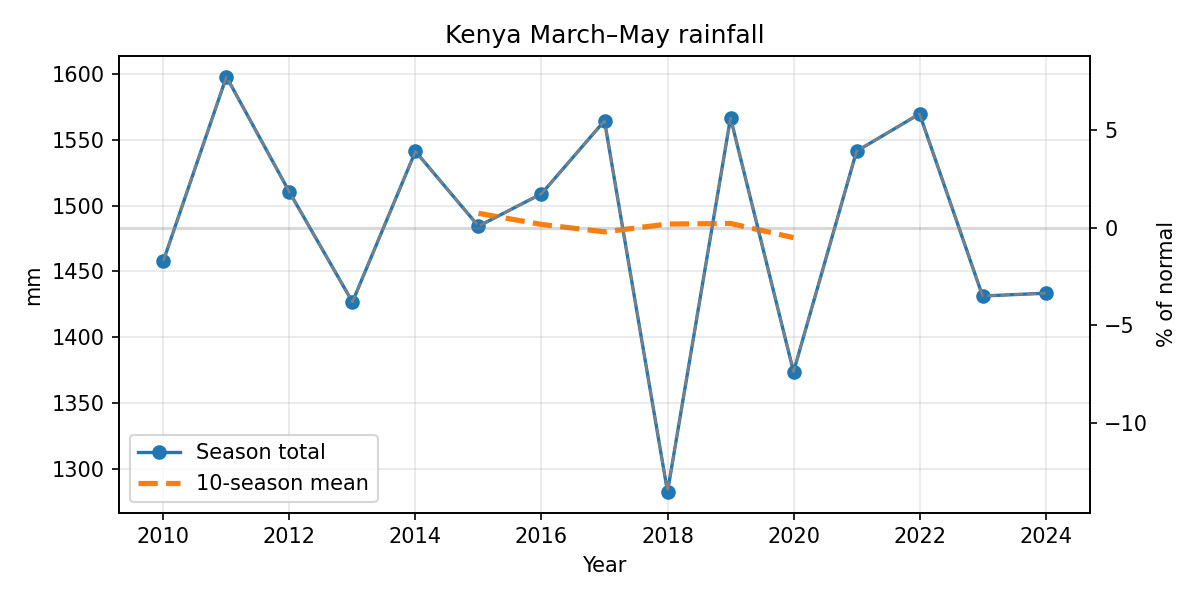
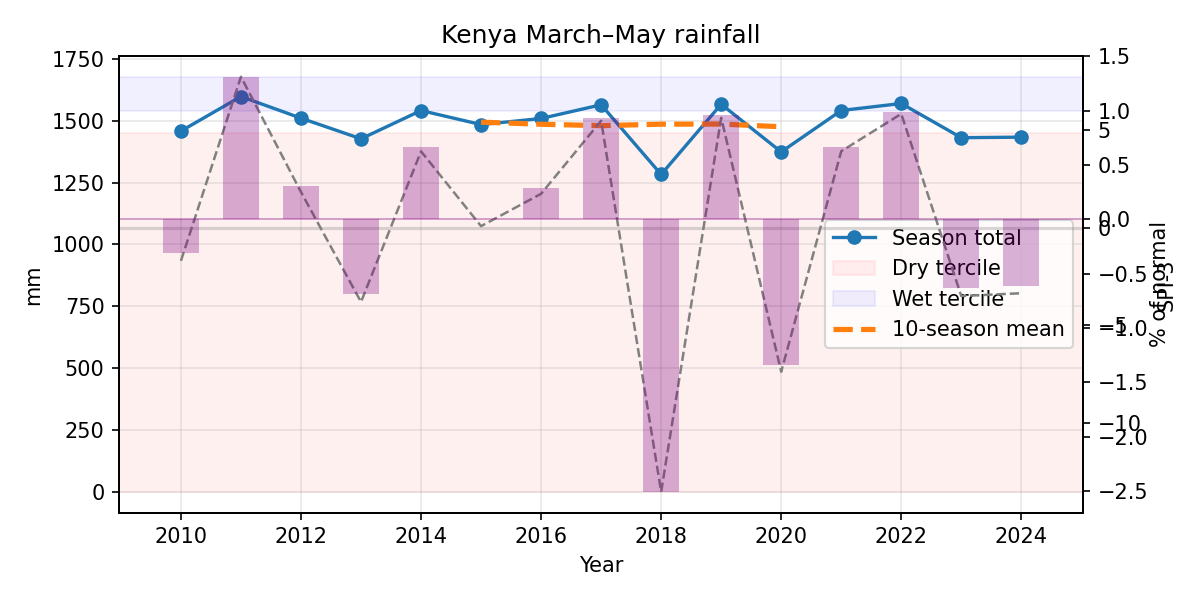
add visualization

diff --git a/east_africa_monsoon_project.py b/east_africa_monsoon_project.py
@@ -203,12 +203,25 @@ def plot_season(season_df: pd.DataFrame, window: Optional[int] = 10):
     ax.plot(season_df["year"], season_df["total_mm"],
             marker="o", lw=1.6, label="Season total")
 
+    # inside plot_season() *after* ax is created
+    q_lo, q_hi = season_df.total_mm.quantile([0.33, 0.66])
+    ax.axhspan(0, q_lo,  color="red",   alpha=0.06, label="Dry tercile")
+    ax.axhspan(q_hi, ax.get_ylim()[1], color="blue", alpha=0.06, label="Wet tercile")
+
     # NEW %-of-normal line (secondary y-axis so scales don’t clash)
     ax2 = ax.twinx()
     ax2.plot(season_df["year"], season_df["anom_pct"],
              lw=1.2, ls="--", color="grey", label="% of normal")
     ax2.set_ylabel("% of normal")
     ax2.axhline(0, color="grey", alpha=0.3)
+
+    # still inside plot_season()
+    ax3 = ax.twinx()
+    ax3.bar(season_df["year"], season_df["spi3"], width=0.6,
+        alpha=0.3, color="purple", label="SPI-3")
+    ax3.set_ylabel("SPI-3")
+    # keep 0 line for reference
+    ax3.axhline(0, color="purple", lw=0.8, alpha=0.4)
 
     # rolling trend (optional)
     if window and len(season_df) >= window:
